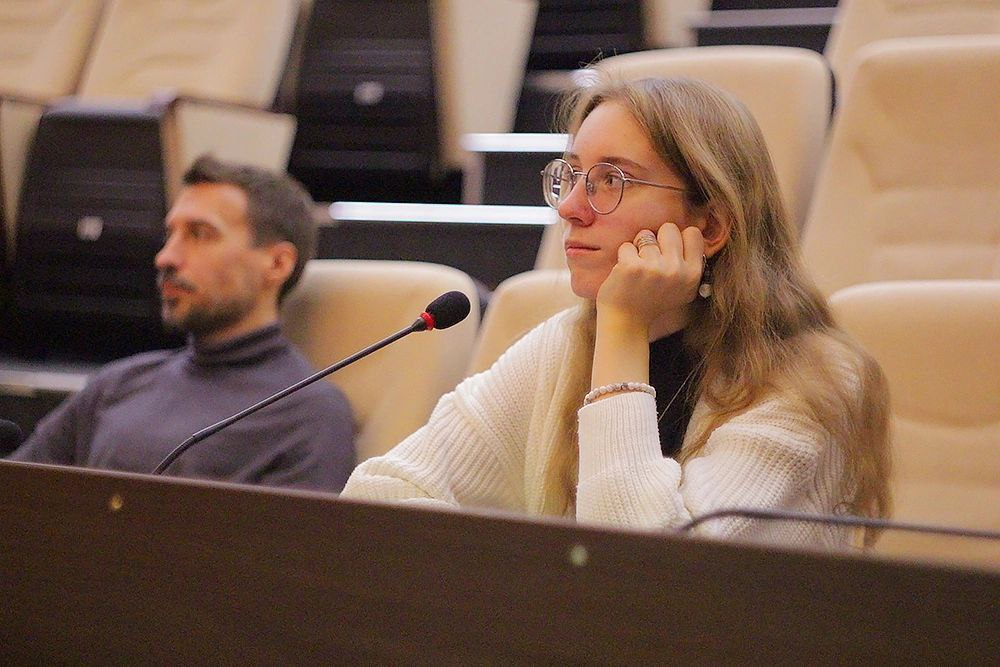
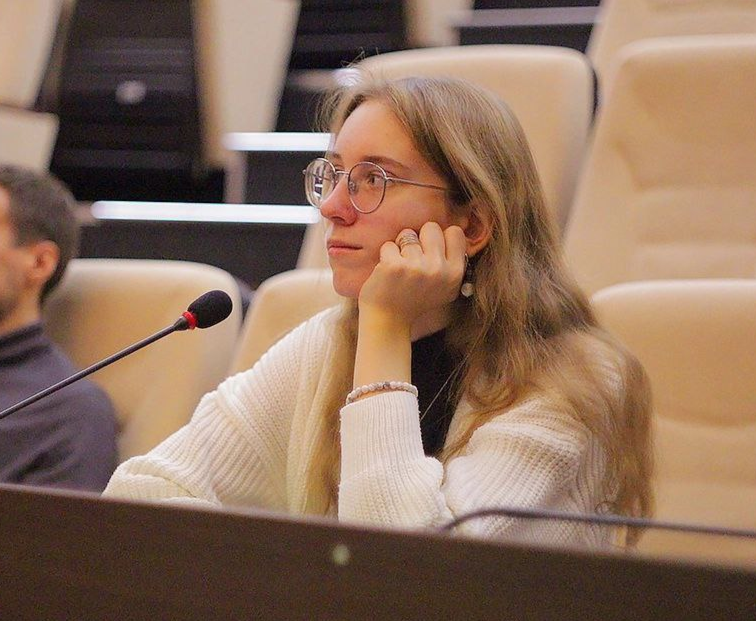
Refine pricing note and team photos

diff --git a/app/page.tsx b/app/page.tsx
@@ -201,7 +201,7 @@ export default function Home() {
             <ul><li>Расшифровка и конспект</li><li>Разметка искажений</li><li>PDF-отчёт</li></ul>
           </article>
         </div>
-        <p className="price-caption">Приложение находится на этапе MVP. Дату подключения и условия оплаты команда сообщит перед запуском.</p>
+        <p className="price-caption">Приложение находится на этапе создания прототипа продукта. Дату подключения и условия оплаты команда сообщит перед запуском.</p>
       </section>
 
       <section className="section roadmap-section" id="roadmap">
